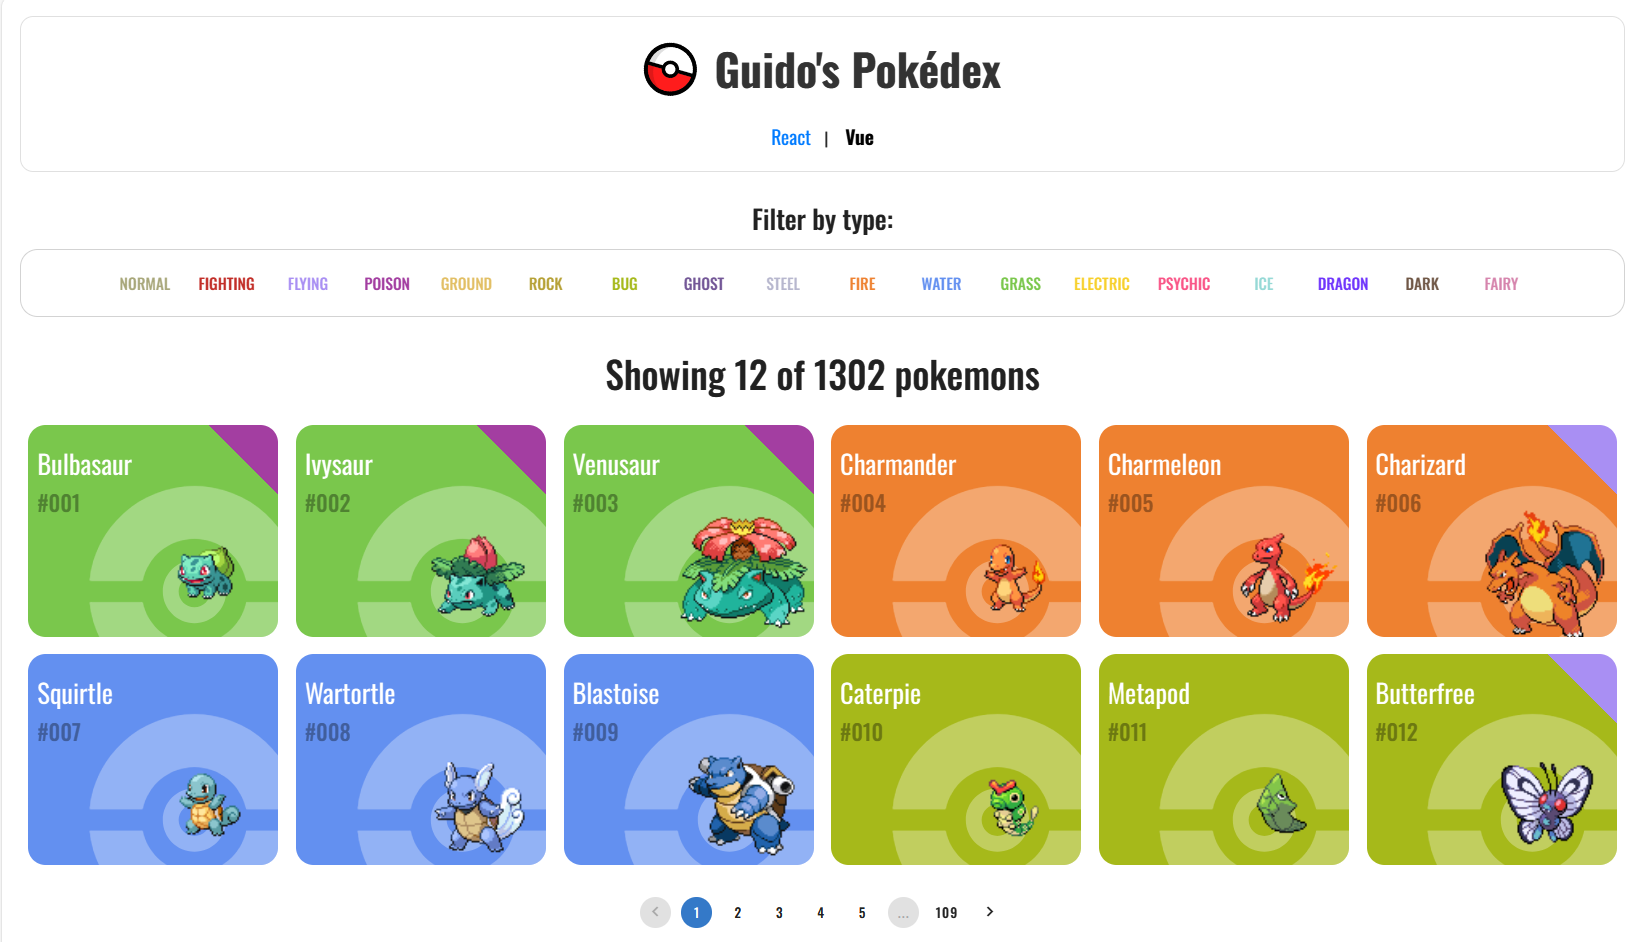
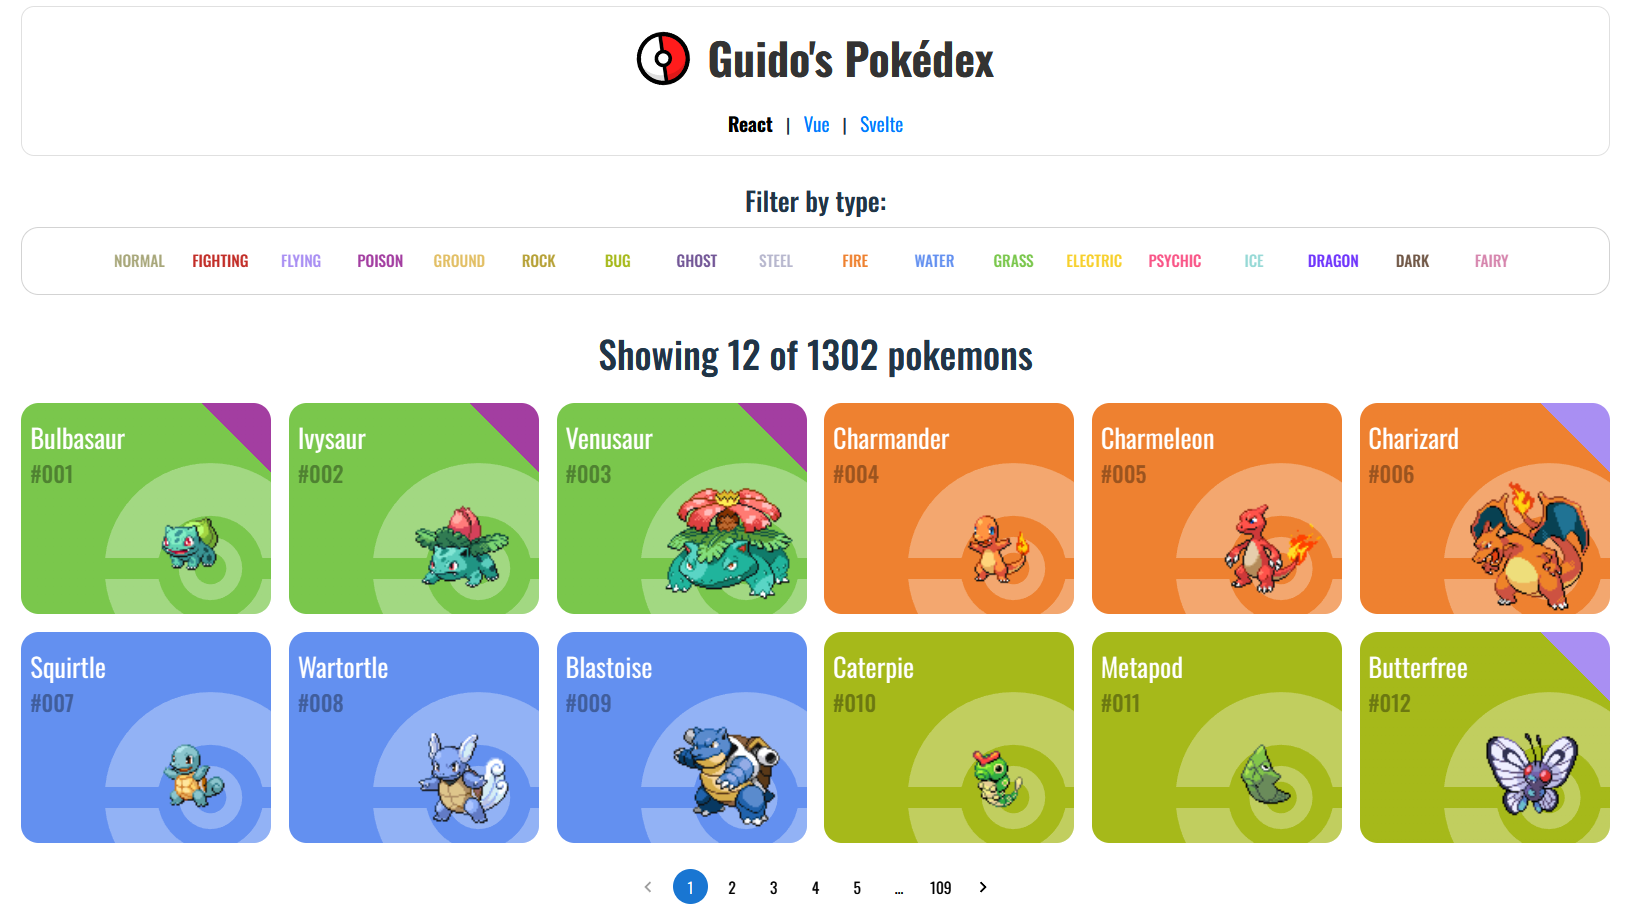
updated pokedex project

diff --git a/index.html b/index.html
@@ -142,7 +142,7 @@
                   <button class="thumb-btn"
                     data-images='["assets/images/projects/pokedex.png","assets/images/projects/pokedex2.png","assets/images/projects/pokedex3.jpg"]'
                     data-title="Pokedex"
-                    data-description="Responsive web application in React.js and Vue.js versions that displays and filters Pokémon using the PokéAPI"
+                    data-description="Responsive web application in React.js, Vue.js and Svelte versions that displays and filters Pokémon using the PokéAPI"
                     data-link="https://guidos-pokedex-react.netlify.app/"
                     >
                     <img src="assets/images/projects/pokedex.png" alt="Pokedex" class="w-full h-full object-cover">
@@ -157,9 +157,9 @@
                   <h3 class="text-2xl font-bold mb-4">Pokedex</h3>
                   <p class="text-gray-600 mb-4">
                     Interactive Pokédex powered by the PokéAPI.
-                    <br/>Built first with React, then re-implemented in Vue.js to explore reactivity models and composition patterns.
-                    <br/>Includes a built-in switcher that lets users toggle between the React and Vue versions seamlessly.</p>
-                  <a href="https://guidos-pokedex.netlify.app/" class="text-blue-500 hover:underline" target="_blank" rel="noopener noreferrer">View Project Live</a>
+                    <br/>Built first with React for a school assignment, then re-implemented in Vue.js and Svelte to learn the frameworks and explore reactivity models and composition patterns.
+                    <br/>Includes a built-in switcher that lets users toggle between the React, Vue and Svelte versions seamlessly.</p>
+                  <a href="https://guidos-pokedex-react.netlify.app/" class="text-blue-500 hover:underline" target="_blank" rel="noopener noreferrer">View Project Live</a>
                 </div>
               </div>
 
